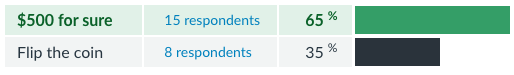
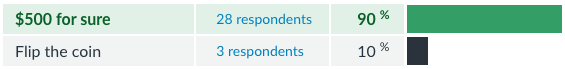
updated 4654 session-3 slides

Changed region(s): [[0.0, 0.058, 0.9961, 0.9565], [0.0, 0.6087, 0.2179, 0.8696], [0.3113, 0.6087, 0.5603, 0.8406]]

diff --git a/courses/bus-4654/lectures/session-3.html b/courses/bus-4654/lectures/session-3.html
@@ -159,7 +159,7 @@
 					</section>
 
 					<section>
-						<p align="left" style="font-family: 'Benton Sans'; font-size: 90%; position: relative; top: -200px; color:#582C83;">From Session 1: what are the two most important components of an economic experiment?</p>
+						<p align="left" style="font-family: 'Benton Sans'; font-size: 150%; color:#582C83;">From Session 1: what are the two most important components of an economic experiment?</p>
 					</section>
 
 					<section data-transition="slide-in fade-out">
@@ -179,12 +179,12 @@
 					</section>
 
 					<section>
-						<p align="left" style="font-family: 'Benton Sans'; font-size: 90%; position: relative; top: -200px;">Evaluating value over <span style="color:#582C83;">gains</span>.</p>
+						<p align="left" style="font-family: 'Benton Sans'; font-size: 150%; color:#582C83;">What are we evaluating over <span style="color:#582C83;">gains</span>?</p>
 						
 					</section>
 
 					<section>
-						<p align="left" style="font-family: 'Benton Sans'; font-size: 90%; position: relative; top: -200px;">Evaluating value over <span style="color:#582C83;">losses</span>.</p>
+						<p align="left" style="font-family: 'Benton Sans'; font-size: 150%; color:#582C83;">What are we evaluating over <span style="color:#582C83;">losses</span>?</p>
 						
 					</section>
 				</section>
@@ -218,11 +218,11 @@
 						</p>
 					</section>
 
-					<section>
+					<!-- <section>
 						<p align="center">
 							<img class="r-stretch" src="/images/teaching/comparison.jpg">
 						</p>
-					</section>
+					</section> -->
 				</section>
 
 				<section>
@@ -310,7 +310,7 @@
 					<section>
 						<p align="left" style="font-family: 'Benton Sans'; font-size: 90%; color:#582C83;">Evidence of Loss Aversion.</p>
 						<p align="center">
-							<a href="https://youtu.be/tW_SNz1zNEM?t=1927"><img src="/images/teaching/ivey-mug-1.png" height="400"></a><br>
+							<a href="https://youtu.be/woN4LDO6fzg?si=5shMDSNJM8lwBIWl&t=1927"><img src="/images/teaching/ivey-mug-1.png" height="400"></a><br>
 							Time: 32:07 - 33:55
 						</p>
 					</section>
@@ -318,39 +318,41 @@
 
 				<section>
 					<section>
-						<p align="left" style="font-family: 'Benton Sans'; font-size: 90%; position: relative; top: 0px; color:#582C83;">Back to Maggi: strategies that utilize Prospect Theory.</p><br>
+						<p align="left" style="font-family: 'Benton Sans'; font-size: 150%; color:#582C83;">Back to Maggi: What are strategies that utilize Prospect Theory?</p>
+						<!-- <br>
 						<ol style="font-family: 'Benton Sans'; font-size: 90%; list-style-position: inside; margin-left: -800px;">
 							<li></li><br><br>
 							<li></li><br><br>
 							<li></li><br><br>
-						</ol>
+						</ol> -->
 					</section>
 
 					<section>
-						<p align="left" style="font-family: 'Benton Sans'; font-size: 90%; position: relative; top: 0px; color:#582C83;">How will these strategies use Prospect Theory?</p><br>
+						<p align="left" style="font-family: 'Benton Sans'; font-size: 150%; color:#582C83;">How will these strategies use Prospect Theory?</p>
+						<!-- <br>
 						<ol style="font-family: 'Benton Sans'; font-size: 90%; list-style-position: inside; margin-left: -800px;">
 							<li></li><br><br>
 							<li></li><br><br>
 							<li></li><br><br>
-						</ol>
+						</ol> -->
 					</section>
 
 					<section>
-						<p align="left" style="font-family: 'Benton Sans'; font-size: 90%; position: relative; top: 0px; color:#582C83;">What challenges will Nestlé face in implementing these changes?</p>
-						<ol style="font-family: 'Benton Sans'; font-size: 90%; list-style-position: inside; margin-left: -800px;">
+						<p align="left" style="font-family: 'Benton Sans'; font-size: 150%; color:#582C83;">What challenges will Nestlé face in implementing these changes?</p>
+						<!-- <ol style="font-family: 'Benton Sans'; font-size: 90%; list-style-position: inside; margin-left: -800px;">
 							<li></li><br><br>
 							<li></li><br><br>
 							<li></li><br><br>
-						</ol>
+						</ol> -->
 					</section>
 
 					<section>
-						<p align="left" style="font-family: 'Benton Sans'; font-size: 90%; position: relative; top: 0px; color:#582C83;">How will B2B and B2C customers respond differently to these strategies (if at all)?</p>
-						<ol style="font-family: 'Benton Sans'; font-size: 90%; list-style-position: inside; margin-left: -800px;">
+						<p align="left" style="font-family: 'Benton Sans'; font-size: 150%; color:#582C83;">How will B2B and B2C customers respond differently to these strategies (if at all)?</p>
+						<!-- <ol style="font-family: 'Benton Sans'; font-size: 90%; list-style-position: inside; margin-left: -800px;">
 							<li></li><br><br>
 							<li></li><br><br>
 							<li></li><br><br>
-						</ol>
+						</ol> -->
 					</section>
 				</section>
 
